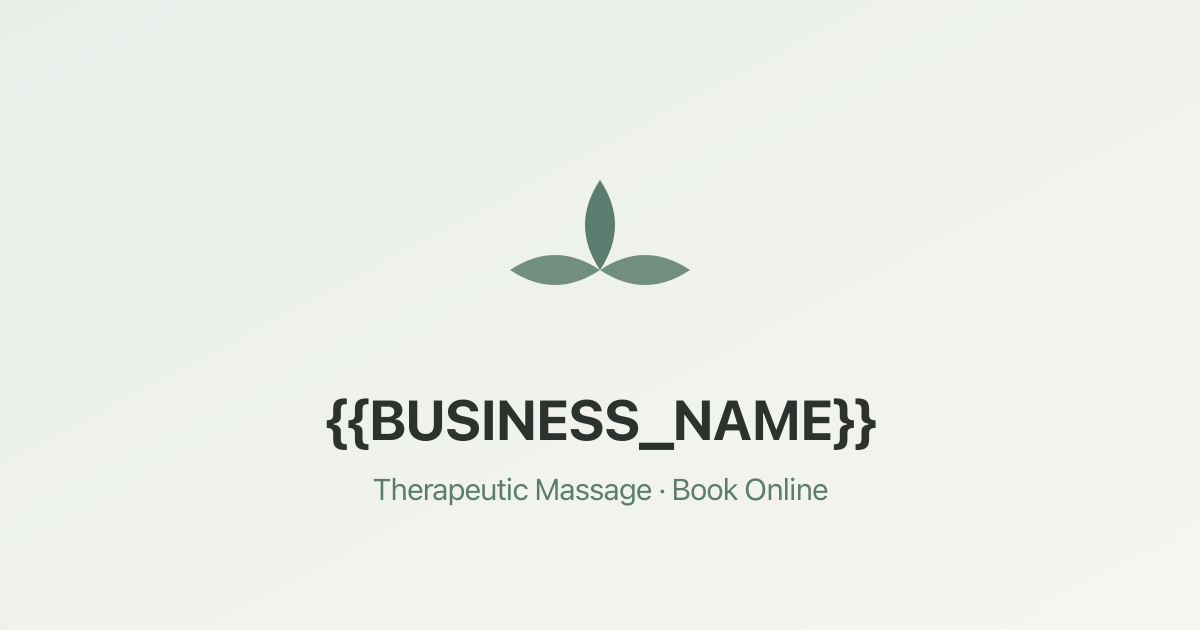
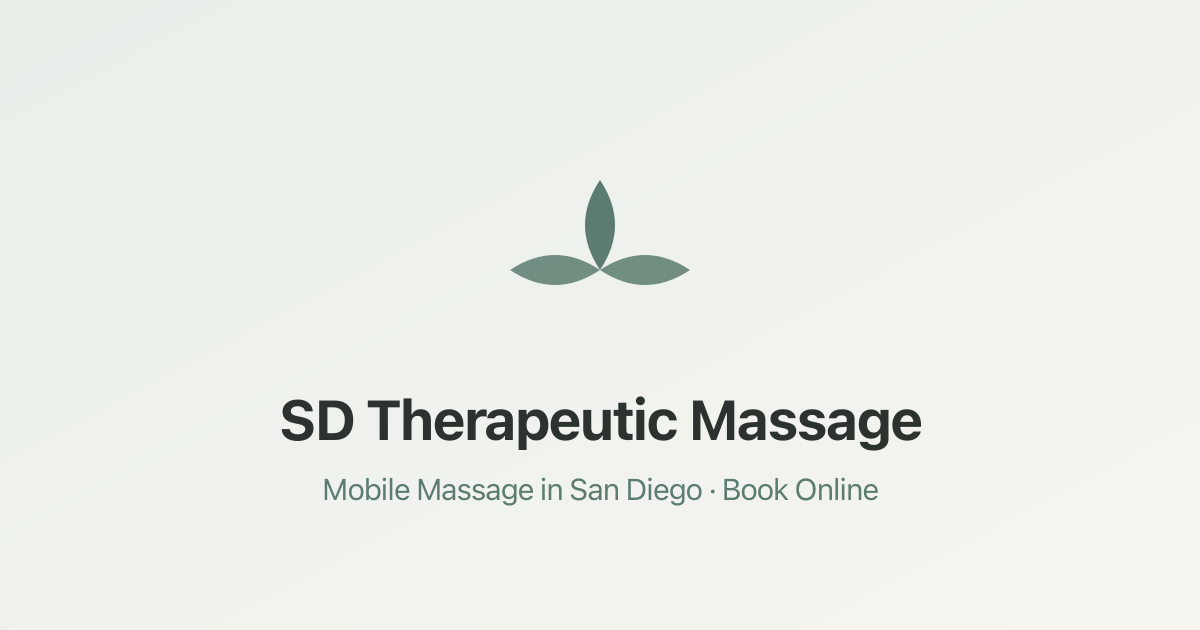
Fill in real business details for SD Therapeutic Massage
- Business name, San Diego CA service area, phone, email
- Mobile-only: replaced Location/address with Service Area section
- JSON-LD switched to service-area business (areaServed, no streetAddress/geo)
- Services: Chair Massage (30 min), Table Massage (60 min) + OfferCatalog
- Canonical/OG/sitemap/robots now use https://massagebysd.com
- Omitted unverified credentials and rates on purpose

Changed region(s): [[0.2158, 0.6333, 0.7708, 0.7238], [0.2467, 0.754, 0.74, 0.8143]]

diff --git a/index.html b/index.html
@@ -6,41 +6,35 @@
 
   <!--
     ============================================================
-    PLACEHOLDERS TO FILL IN (search for {{ }} tokens):
-      {{BUSINESS_NAME}}   - business / brand name
-      {{THERAPIST_NAME}}  - therapist full name
-      {{TAGLINE}}         - short value proposition
-      {{ABOUT_BIO}}       - about paragraph(s)
-      {{ADDRESS}}         - street address
-      {{CITY_STATE_ZIP}}  - city, state, zip
-      {{GEO_LAT}} {{GEO_LNG}} - map coordinates (JSON-LD)
-      {{PHONE}}           - phone, digits w/ country code in tel: links
-      {{EMAIL}}           - contact email
-      {{HOURS}}           - human-readable hours (also update JSON-LD openingHours)
-      {{DOMAIN_URL}}      - canonical site URL, e.g. https://massagebysd.com
-      {{SERVICES}}        - edit the .service cards below
-      (Square booking embed is already wired into the #booking section.)
+    REMAINING ITEMS TO CONFIRM (see README):
+      - Therapist name(s) + real About bio
+      - Credentials wording (license #, "licensed & insured") — omitted
+        on purpose until confirmed
+      - Rates (deferred to the Square booking calendar, the source of truth)
+      - Service-area neighborhoods, travel radius, any travel fee
+      - Business hours (currently "by appointment")
     ============================================================
   -->
 
-  <title>{{BUSINESS_NAME}} — Massage Therapy in {{CITY_STATE_ZIP}}</title>
-  <meta name="description" content="{{BUSINESS_NAME}}: professional therapeutic massage by {{THERAPIST_NAME}}. Book your appointment online. Located in {{CITY_STATE_ZIP}}." />
-  <link rel="canonical" href="{{DOMAIN_URL}}/" />
+  <title>SD Therapeutic Massage — Mobile Massage in San Diego, CA</title>
+  <meta name="description" content="SD Therapeutic Massage brings chair and table massage to you anywhere in San Diego, CA. Mobile massage by appointment — book online. Cash payment in person." />
+  <link rel="canonical" href="https://massagebysd.com/" />
 
   <!-- Open Graph -->
   <meta property="og:type" content="website" />
-  <meta property="og:title" content="{{BUSINESS_NAME}} — Massage Therapy" />
-  <meta property="og:description" content="Professional therapeutic massage by {{THERAPIST_NAME}}. Book online." />
-  <meta property="og:url" content="{{DOMAIN_URL}}/" />
-  <meta property="og:image" content="{{DOMAIN_URL}}/assets/og-image.png" />
+  <meta property="og:site_name" content="SD Therapeutic Massage" />
+  <meta property="og:title" content="SD Therapeutic Massage — Mobile Massage in San Diego" />
+  <meta property="og:description" content="Chair and table massage brought to you anywhere in San Diego. By appointment — book online." />
+  <meta property="og:url" content="https://massagebysd.com/" />
+  <meta property="og:image" content="https://massagebysd.com/assets/og-image.png" />
   <meta property="og:image:width" content="1200" />
   <meta property="og:image:height" content="630" />
 
   <!-- Twitter -->
   <meta name="twitter:card" content="summary_large_image" />
-  <meta name="twitter:title" content="{{BUSINESS_NAME}} — Massage Therapy" />
-  <meta name="twitter:description" content="Professional therapeutic massage by {{THERAPIST_NAME}}. Book online." />
-  <meta name="twitter:image" content="{{DOMAIN_URL}}/assets/og-image.png" />
+  <meta name="twitter:title" content="SD Therapeutic Massage — Mobile Massage in San Diego" />
+  <meta name="twitter:description" content="Chair and table massage brought to you anywhere in San Diego. By appointment — book online." />
+  <meta name="twitter:image" content="https://massagebysd.com/assets/og-image.png" />
 
   <!-- Icons -->
   <link rel="icon" href="/favicon.svg" type="image/svg+xml" />
@@ -51,44 +45,65 @@
 
   <link rel="stylesheet" href="/styles.css" />
 
-  <!-- LocalBusiness structured data. Avoid MedicalBusiness framing on purpose. -->
+  <!--
+    Service-area business structured data (mobile, no storefront).
+    No streetAddress/geo on purpose — this is a service-area business.
+    Avoids MedicalBusiness framing deliberately.
+  -->
   <script type="application/ld+json">
   {
     "@context": "https://schema.org",
     "@type": "HealthAndBeautyBusiness",
-    "@id": "{{DOMAIN_URL}}/#business",
-    "name": "{{BUSINESS_NAME}}",
-    "description": "Professional therapeutic massage by {{THERAPIST_NAME}}.",
-    "url": "{{DOMAIN_URL}}/",
-    "telephone": "{{PHONE}}",
-    "email": "{{EMAIL}}",
-    "image": "{{DOMAIN_URL}}/assets/og-image.png",
-    "priceRange": "$$",
+    "@id": "https://massagebysd.com/#business",
+    "name": "SD Therapeutic Massage",
+    "description": "Mobile massage therapy in San Diego, California. Chair and table massage brought to you, by appointment.",
+    "url": "https://massagebysd.com/",
+    "telephone": "+1-619-693-6959",
+    "email": "silas@massagebysd.com",
+    "image": "https://massagebysd.com/assets/og-image.png",
     "address": {
       "@type": "PostalAddress",
-      "streetAddress": "{{ADDRESS}}",
-      "addressLocality": "{{CITY_STATE_ZIP}}",
+      "addressLocality": "San Diego",
+      "addressRegion": "CA",
       "addressCountry": "US"
     },
-    "geo": {
-      "@type": "GeoCoordinates",
-      "latitude": "{{GEO_LAT}}",
-      "longitude": "{{GEO_LNG}}"
-    },
-    "openingHoursSpecification": [
-      {
-        "@type": "OpeningHoursSpecification",
-        "dayOfWeek": ["Monday", "Tuesday", "Wednesday", "Thursday", "Friday"],
-        "opens": "09:00",
-        "closes": "18:00"
-      },
-      {
-        "@type": "OpeningHoursSpecification",
-        "dayOfWeek": ["Saturday"],
-        "opens": "10:00",
-        "closes": "16:00"
+    "areaServed": {
+      "@type": "City",
+      "name": "San Diego",
+      "containedInPlace": {
+        "@type": "State",
+        "name": "California"
       }
-    ]
+    },
+    "availableChannel": {
+      "@type": "ServiceChannel",
+      "serviceUrl": "https://massagebysd.com/#booking",
+      "name": "Online booking"
+    },
+    "hasOfferCatalog": {
+      "@type": "OfferCatalog",
+      "name": "Massage services",
+      "itemListElement": [
+        {
+          "@type": "Offer",
+          "itemOffered": {
+            "@type": "Service",
+            "name": "Chair Massage",
+            "description": "Seated, fully clothed 30-minute massage focused on neck, shoulders, back, and arms.",
+            "serviceType": "Chair massage"
+          }
+        },
+        {
+          "@type": "Offer",
+          "itemOffered": {
+            "@type": "Service",
+            "name": "Table Massage",
+            "description": "Full-body 60-minute massage on a professional massage table set up at your location.",
+            "serviceType": "Table massage"
+          }
+        }
+      ]
+    }
   }
   </script>
 </head>
@@ -97,7 +112,7 @@
 
   <header class="site-header" x-data="{ open: false }">
     <div class="container header-inner">
-      <a class="brand" href="#hero">{{BUSINESS_NAME}}</a>
+      <a class="brand" href="#hero">SD Therapeutic Massage</a>
 
       <button
         class="nav-toggle"
@@ -113,7 +128,7 @@
       <nav class="site-nav" :class="{ 'is-open': open }" @click="open = false" aria-label="Primary">
         <a href="#services">Services</a>
         <a href="#about">About</a>
-        <a href="#location">Location</a>
+        <a href="#contact">Contact</a>
         <a class="nav-cta" href="#booking">Book Now</a>
       </nav>
     </div>
@@ -124,9 +139,9 @@
     <!-- ================= HERO ================= -->
     <section id="hero" class="hero">
       <div class="container hero-inner">
-        <h1>{{BUSINESS_NAME}}</h1>
-        <p class="tagline">{{TAGLINE}}</p>
-        <p class="hero-sub">Therapeutic massage tailored to you, by {{THERAPIST_NAME}}. Book a time that works for your schedule.</p>
+        <h1>SD Therapeutic Massage</h1>
+        <p class="tagline">Mobile massage, brought to you in San Diego.</p>
+        <p class="hero-sub">Chair and table massage at your home, office, or event — all sessions by appointment. Book a time that works for your schedule.</p>
         <a class="btn btn-primary" href="#booking">Book Now</a>
       </div>
     </section>
@@ -135,31 +150,22 @@
     <section id="services" class="section">
       <div class="container">
         <h2>Services</h2>
-        <p class="section-lead">Each session is customized to your needs. Payment is cash, in person.</p>
+        <p class="section-lead">Every massage is mobile and by appointment — we bring everything needed to you. Sessions are tailored to what your body needs that day. Payment is cash, in person.</p>
 
-        <!-- {{SERVICES}} — edit these cards -->
         <ul class="services-grid">
           <li class="service">
-            <h3>Swedish Massage</h3>
-            <p class="service-meta"><span class="duration">60 min</span> · <span class="price">$90</span></p>
-            <p>Gentle, flowing techniques to ease tension and promote deep relaxation. Ideal if you're new to massage or want to unwind.</p>
+            <h3>Chair Massage</h3>
+            <p class="service-meta"><span class="duration">30 min</span></p>
+            <p>Seated and fully clothed, using a professional massage chair. Focused on the neck, shoulders, back, and arms — ideal for offices, events, and quick tension relief without needing space to set up a table.</p>
           </li>
           <li class="service">
-            <h3>Deep Tissue Massage</h3>
-            <p class="service-meta"><span class="duration">60 min</span> · <span class="price">$105</span></p>
-            <p>Focused pressure on deeper muscle layers to release chronic tightness and knots. Great for stubborn shoulder and back tension.</p>
-          </li>
-          <li class="service">
-            <h3>Sports Massage</h3>
-            <p class="service-meta"><span class="duration">75 min</span> · <span class="price">$120</span></p>
-            <p>Targeted work to support recovery, mobility, and performance. Suited to active bodies and post-training soreness.</p>
-          </li>
-          <li class="service">
-            <h3>Extended Relaxation</h3>
-            <p class="service-meta"><span class="duration">90 min</span> · <span class="price">$135</span></p>
-            <p>A longer, unhurried full-body session for complete reset. The most popular choice for a true escape.</p>
+            <h3>Table Massage</h3>
+            <p class="service-meta"><span class="duration">60 min</span></p>
+            <p>A full-body session on a professional massage table set up at your location. The right choice for deeper, longer, whole-body work in the comfort of your own space.</p>
           </li>
         </ul>
+
+        <p class="services-note">Rates are shown in the booking calendar below.</p>
 
         <div class="section-cta">
           <a class="btn btn-primary" href="#booking">Book a Session</a>
@@ -174,10 +180,10 @@
           <img src="/assets/therapist.jpg" alt="" width="480" height="600" loading="lazy" />
         </div>
         <div class="about-copy">
-          <h2>About {{THERAPIST_NAME}}</h2>
-          <p>{{ABOUT_BIO}}</p>
-          <p>With a calm, client-first approach, {{THERAPIST_NAME}} creates a quiet, welcoming space where you can truly relax. Every session is adapted to how your body feels that day — no two are exactly alike.</p>
-          <p class="credentials"><strong>Licensed &amp; insured.</strong> Certified Massage Therapist.</p>
+          <h2>About</h2>
+          <p>SD Therapeutic Massage is a mobile massage practice serving San Diego. Instead of asking you to travel to a spa, everything comes to you — the table or chair, the linens, and a calm, unhurried session in a space where you already feel comfortable.</p>
+          <p>With a client-first approach, every appointment is adapted to how your body feels that day. Whether you want focused work on stubborn shoulder tension or a full-body reset, the session is built around you.</p>
+          <p>Serving homes, offices, and events across San Diego, by appointment.</p>
         </div>
       </div>
     </section>
@@ -214,24 +220,19 @@
       </div>
     </section>
 
-    <!-- ================= LOCATION & HOURS ================= -->
-    <section id="location" class="section section-alt">
+    <!-- ================= SERVICE AREA & CONTACT ================= -->
+    <section id="contact" class="section section-alt">
       <div class="container location-inner">
         <div class="location-details">
-          <h2>Location &amp; Hours</h2>
-          <address>
-            {{ADDRESS}}<br />
-            {{CITY_STATE_ZIP}}
-          </address>
-          <p class="hours">{{HOURS}}</p>
+          <h2>Service Area &amp; Contact</h2>
+          <p class="service-area"><strong>Mobile massage throughout San Diego, CA.</strong> There's no storefront to visit — appointments take place at your home, office, or event.</p>
+          <p class="hours">All massages are by appointment.</p>
           <ul class="contact-list">
-            <li><a href="tel:{{PHONE}}">{{PHONE}}</a></li>
-            <li><a href="mailto:{{EMAIL}}">{{EMAIL}}</a></li>
+            <li><a href="tel:+16196936959">619-693-6959</a></li>
+            <li><a href="mailto:silas@massagebysd.com">silas@massagebysd.com</a></li>
           </ul>
           <p>
-            <a class="btn btn-secondary" href="https://maps.google.com/?q={{ADDRESS}}, {{CITY_STATE_ZIP}}" target="_blank" rel="noopener">
-              Get Directions
-            </a>
+            <a class="btn btn-secondary" href="#booking">Check Availability</a>
           </p>
         </div>
       </div>
@@ -242,14 +243,15 @@
   <!-- ================= FOOTER ================= -->
   <footer class="site-footer">
     <div class="container footer-inner">
-      <p class="footer-brand">{{BUSINESS_NAME}}</p>
+      <p class="footer-brand">SD Therapeutic Massage</p>
+      <p class="footer-tag">Mobile massage in San Diego, CA · By appointment</p>
       <nav class="footer-nav" aria-label="Footer">
         <a href="#services">Services</a>
         <a href="#about">About</a>
         <a href="#booking">Book</a>
-        <a href="#location">Location</a>
+        <a href="#contact">Contact</a>
       </nav>
-      <p class="copyright">&copy; <span id="year">2026</span> {{BUSINESS_NAME}}. All rights reserved.</p>
+      <p class="copyright">&copy; <span id="year">2026</span> SD Therapeutic Massage. All rights reserved.</p>
     </div>
   </footer>
 

diff --git a/styles.css b/styles.css
@@ -1,5 +1,5 @@
 /* ============================================================
-   {{BUSINESS_NAME}} — styles
+   SD Therapeutic Massage — styles
    Mobile-first, calm palette, minimal. No frameworks.
    ============================================================ */
 
@@ -223,6 +223,7 @@ button:focus-visible {
 .service:hover { box-shadow: 0 8px 24px rgba(44, 51, 47, .08); transform: translateY(-2px); }
 .service-meta { color: var(--sage-dark); font-weight: 600; margin-bottom: .5rem; }
 .service p:last-child { margin-bottom: 0; color: var(--muted); }
+.services-note { margin-top: 1.5rem; color: var(--muted); font-size: .95rem; }
 
 /* ---------- About ---------- */
 .about-inner {
@@ -273,6 +274,7 @@ button:focus-visible {
 /* ---------- Location ---------- */
 .location-inner { max-width: 640px; }
 address { font-style: normal; font-size: 1.1rem; margin-bottom: .75rem; }
+.service-area { font-size: 1.05rem; }
 .hours { white-space: pre-line; color: var(--muted); }
 .contact-list { list-style: none; padding: 0; margin: 0 0 1.5rem; }
 .contact-list a { font-weight: 600; text-decoration: none; }
@@ -286,7 +288,8 @@ address { font-style: normal; font-size: 1.1rem; margin-bottom: .75rem; }
   margin-top: 0;
 }
 .footer-inner { text-align: center; }
-.footer-brand { font-weight: 700; color: #fff; font-size: 1.1rem; margin-bottom: 1rem; }
+.footer-brand { font-weight: 700; color: #fff; font-size: 1.1rem; margin-bottom: .35rem; }
+.footer-tag { color: #96a29c; font-size: .95rem; margin-bottom: 1rem; }
 .footer-nav { display: flex; gap: 1.25rem; justify-content: center; flex-wrap: wrap; margin-bottom: 1rem; }
 .footer-nav a { color: #cdd6d1; text-decoration: none; }
 .footer-nav a:hover { color: #fff; }

diff --git a/README.md b/README.md
@@ -26,26 +26,37 @@ npx serve .
 Then open http://localhost:8080. The Square widget loads from Square's CDN, so
 booking works locally too.
 
-## Where the placeholders live
+## Business details (live content)
 
-All human-editable values use greppable `{{TOKENS}}`. Search the repo for `{{`
-to find them. Primary locations:
+Real details are filled in — there are no `{{TOKENS}}` left. Current content:
 
-| Token | Files | Notes |
-|---|---|---|
-| `{{BUSINESS_NAME}}` | `index.html`, `assets/og-image.svg` | Brand name (also in `<title>`, JSON-LD, footer) |
-| `{{THERAPIST_NAME}}` | `index.html` | Therapist name / About section |
-| `{{TAGLINE}}` | `index.html` | Hero one-liner |
-| `{{ABOUT_BIO}}` | `index.html` | About paragraph |
-| `{{ADDRESS}}`, `{{CITY_STATE_ZIP}}` | `index.html` | Address (also JSON-LD + map link) |
-| `{{GEO_LAT}}`, `{{GEO_LNG}}` | `index.html` | Coordinates in JSON-LD |
-| `{{PHONE}}`, `{{EMAIL}}` | `index.html` | `tel:` / `mailto:` links + JSON-LD |
-| `{{HOURS}}` | `index.html` | Human-readable hours (also update `openingHoursSpecification` in the JSON-LD) |
-| `{{DOMAIN_URL}}` | `index.html`, `robots.txt`, `sitemap.xml` | Canonical URL, e.g. `https://massagebysd.com` |
-| Services | `index.html` (`.services-grid`) | Edit the `<li class="service">` cards directly |
+- **Business:** SD Therapeutic Massage
+- **Area:** San Diego, CA — **mobile only, no storefront**
+- **Phone:** 619-693-6959 · **Email:** silas@massagebysd.com
+- **Services:** Chair Massage (30 min), Table Massage (60 min)
+- **Hours:** by appointment
+- **Rates:** intentionally not hardcoded — the Square booking calendar is the
+  single source of truth for pricing.
 
-**After filling placeholders,** double-check the JSON-LD block in
-`index.html` (name, address, geo, phone, hours) and the OG/Twitter meta tags.
+Because this is a **service-area business**, the JSON-LD deliberately omits
+`streetAddress` and `geo` and uses `areaServed` instead. If a physical location
+is ever added, add those fields back.
+
+### Still to confirm
+
+These were left out on purpose rather than guessed:
+
+- **Therapist name(s)** — the About section is written about the business, not a
+  named person.
+- **Credentials** — "licensed & insured" / CMT license number is *not* claimed
+  anywhere. Add it only once verified.
+- **Service area specifics** — neighborhoods covered, travel radius, travel fee.
+- **Real hours** — if set hours exist, add an `openingHoursSpecification` to the
+  JSON-LD.
+
+Edit points: business copy is in `index.html`; the service cards are the
+`<li class="service">` items; the structured data is the single
+`application/ld+json` block in `<head>`.
 
 ## The Square booking embed
 
@@ -67,9 +78,13 @@ Square settings to keep aligned with this site's constraints:
 ## Assets to replace before launch
 
 Placeholder art was auto-generated; swap these for real files (same paths):
-- `assets/therapist.jpg` — About photo (currently a placeholder; also, the file
-  is PNG data with a `.jpg` name — export a real JPG when replacing).
-- `assets/og-image.png` — 1200×630 social share image.
+- `assets/therapist.jpg` — About photo (currently a generic placeholder shape;
+  also, the file is PNG data with a `.jpg` name — export a real JPG when
+  replacing). A real photo of the therapist or a session setup would help
+  conversion a lot.
+- `assets/og-image.png` — 1200×630 social share image. Regenerate from
+  `assets/og-image.svg` with:
+  `rsvg-convert -w 1200 -h 630 assets/og-image.svg -o assets/og-image.png`
 - `favicon.svg` / `favicon.ico` / `assets/apple-touch-icon.png` — brand icons.
 
 ## Deploy / redeploy
